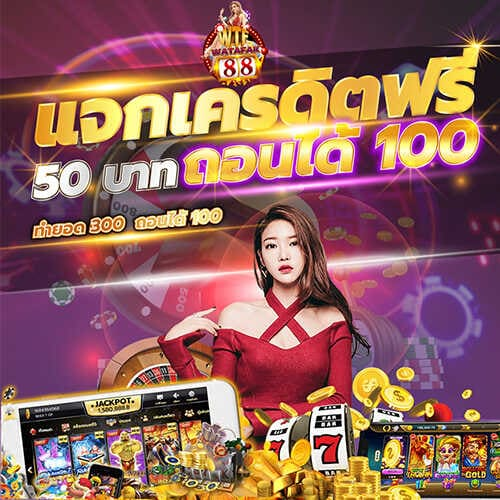
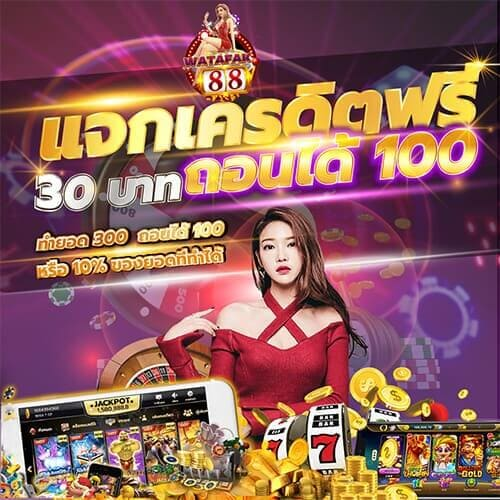
creadit

diff --git a/src/credit.js b/src/credit.js
@@ -7,14 +7,14 @@ export default function Credit() {
       <p className="text-break">
         <span style={{ color: "#ff0000" }}>*</span>กติกากิจกรรม&nbsp;
         <span style={{ color: "#ff0000" }}>
-          <strong>แจกเครดิตฟรี50</strong>
+          <strong>แจกเครดิตฟรี 30 บาท</strong>
         </span>
         &nbsp;ทำตามขั้นตอนง่ายๆ เพียงแค่&nbsp;
         <strong>
           <span style={{ color: "#ff0000" }}>3 ขั้นตอน</span>
 
         </strong>
-        <span style={{ color: "#ff0000" }}>**</span>รับเครดิตฟรี50บาท
+        <span style={{ color: "#ff0000" }}>**</span>รับเครดิตฟรี 30 บาท
       </p>
       <p className="text-break">
         <span style={{ color: "#ff0000" }}>
@@ -32,18 +32,18 @@ export default function Credit() {
           <strong>ขั้นตอนที่ 2:</strong>
         </span>
         &nbsp; ลูกค้ากดถูกใจเพจ watafak88 และแชร์โพสนี้{" "}
-        <a href="https://bit.ly/3CNEWVa" target="_blank" rel="noopener noreferrer">
+        <a href="https://bit.ly/3AKiZo1" target="_blank" rel="noopener noreferrer">
           Fanpage
         </a>
-        &nbsp;ลงในกลุ่ม FACEBOOK หรือ กลุ่ม LINE ให้ครบ 10 แชร์ และในกลุ่มต้องมีสมาชิกไม่ต่ำกว่า 500 คน
+        &nbsp;ลงในกลุ่ม FACEBOOK หรือ กลุ่ม LINE ให้ครบ 5 แชร์ และในกลุ่มต้องมีสมาชิกไม่ต่ำกว่า 500 คน
       </p>
       <p className="text-break">
         <span style={{ color: "#ff0000" }}>
           <strong>ขั้นตอนที่ 3:</strong>
         </span>
-        &nbsp; แคปหน้าจอส่งหลักฐานมาแจ้งแอดมินเพื่อรับเครดิตฟรีได้เลย
+        &nbsp; แคปหน้าจอส่งหลักฐานมาแจ้งที่ <a href="https://bit.ly/37F7z8r" target="_blank" rel="noopener noreferrer">แอดมินไลน์เครดิตฟรี</a>  เพื่อรับเครดิตฟรีได้เลย
         <ul>
-          <li>-แคปหลักฐานการแชร์ 10 กลุ่ม</li>
+          <li>-แคปหลักฐานการแชร์ 5 กลุ่ม</li>
           <li>-แจ้งยูสเซอร์ให้แอดมิน</li>
           <li>-ยูสขึ้นต้นด้วย wat ตามด้วยเบอร์โทร</li>
         </ul>
@@ -53,8 +53,9 @@ export default function Credit() {
           <strong>หมายเหตุ</strong>
         </span>
         <ul>
-          <li>-โปรเครดิตฟรี 50 จำกัด 1 คน ต่อ 1 สิทธิ์</li>
+          <li>-โปรเครดิตฟรี 30 จำกัด 1 คน ต่อ 1 สิทธิ์</li>
           <li>-โปรเครดิตฟรีต่อวัน มีจำนวนจำกัด!!</li>
+          <li>-ตั้งแต่เที่ยงวันถึงเที่ยงคืน!! แชร์ก่อนมีสิทธิ์ก่อน</li>
         </ul>
       </p>
     </div>

diff --git a/src/carousel.js b/src/carousel.js
@@ -25,8 +25,8 @@ const Carrousel_main = () => {
         // onClick={allPromotion}
         // rel='preload'
         as="image"
-        src="https://watafak88.com/img/promotion/pgslot_1-500.jpg"
-        data-src="img/promotion/pgslot_1-500.jpg" className="lazyload"
+        src="img/promotion/pgslot_11-500.jpg"
+        data-src="img/promotion/pgslot_11-500.jpg"
         className="img-fluid rounded"
         alt="pgslot"
         imagesizes="50vw"
@@ -60,7 +60,7 @@ const Carrousel_main = () => {
         // onClick={allPromotion}
         // rel="preload"
         as="image"
-        src="img/promotion/pgslot_3-500.jpg"
+        src="img/promotion/pgslot_1-500.jpg"
         className="img-fluid rounded"
         alt="pgslot"
         imagesizes="50vw"

diff --git a/public/index.html b/public/index.html
@@ -29,7 +29,7 @@
 
     <link rel="preload stylesheet" href="css/site.min.css" />
     <link rel="preload stylesheet" href="css/bootstrap.min.css" />
-    <link rel="preload" href="https://watafak88.com/img/promotion/pgslot_1-500.jpg" as="image" />
+    <link rel="preload" href="https://watafak88.com/img/promotion/pgslot_11-500.jpg" as="image" />
     <link rel="icon" href="img/favicon.ico" />
   </head>
   <body>
